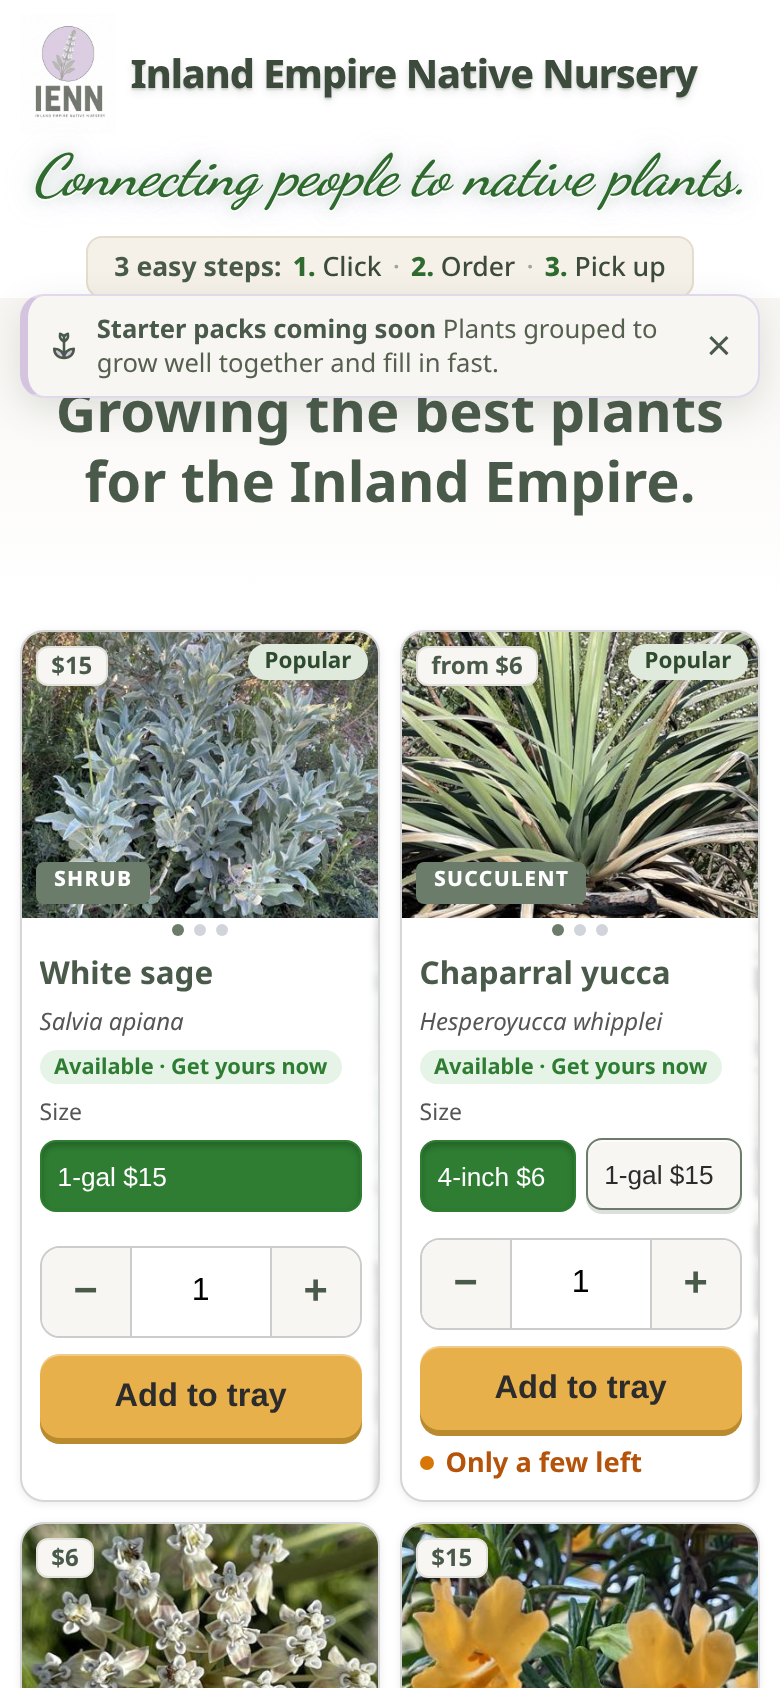
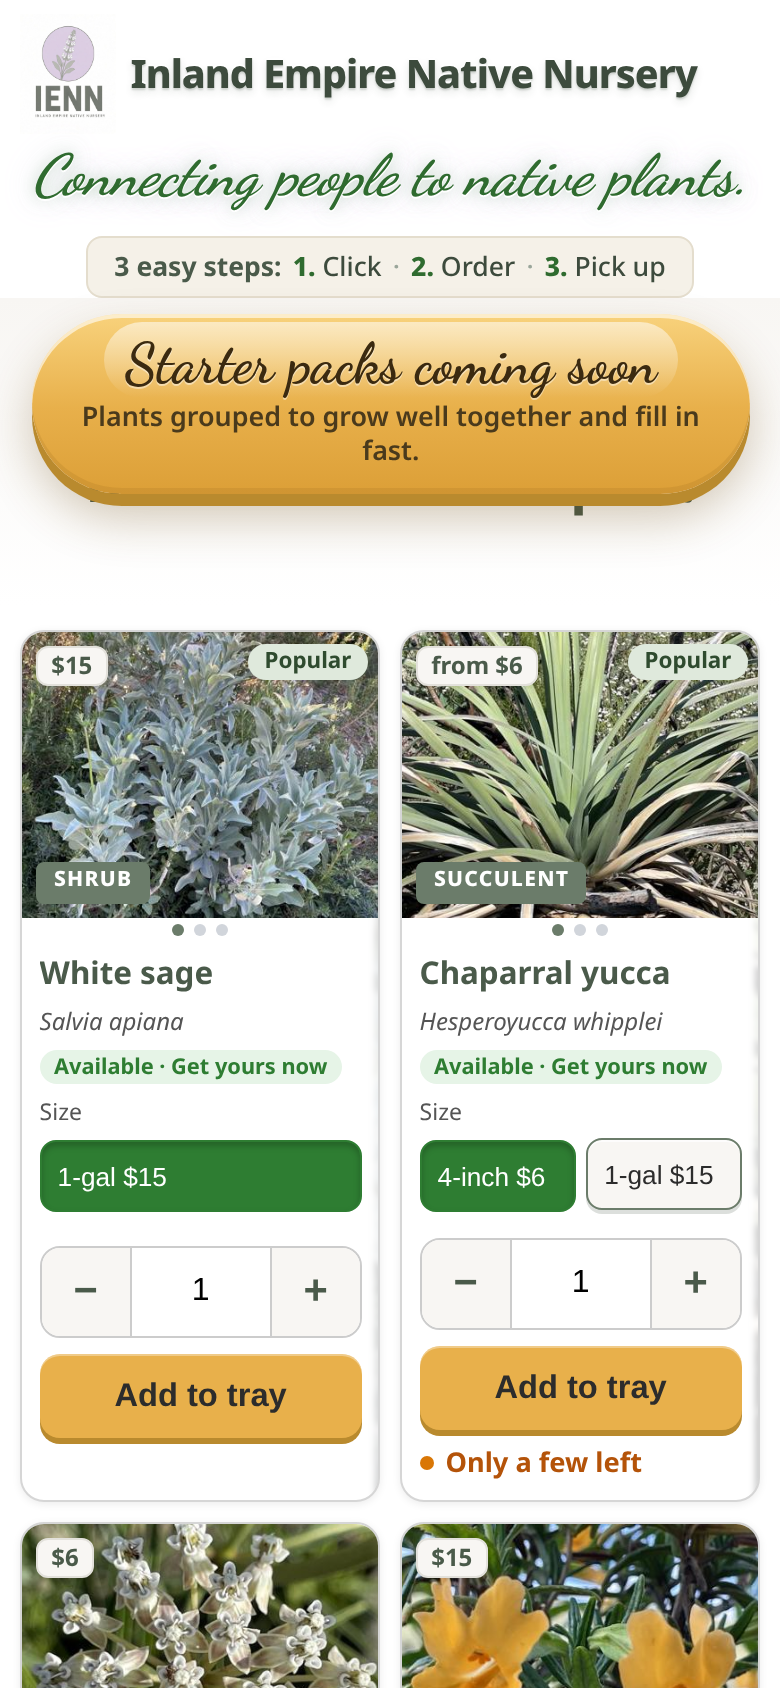
Teaser: softer gloss, balanced subtitle wrap

Changed region(s): [[0.0, 0.1848, 0.9846, 0.3389]]

diff --git a/index.html b/index.html
@@ -98,9 +98,9 @@
       background:linear-gradient(180deg, #f8d27c 0%, var(--honey,#e8b04b) 52%, #dc9f37 100%);
       box-shadow:inset 0 2px 0 rgba(255,255,255,.6), inset 0 -3px 0 rgba(120,80,20,.12), 0 6px 0 var(--honey-edge,#b98a2e), 0 12px 24px rgba(110,75,20,.30);
       opacity:0; transform:translateY(-140%); }
-    .starter-teaser::before { content:""; position:absolute; left:10%; right:10%; top:4px; height:42%; border-radius:999px; background:linear-gradient(180deg, rgba(255,255,255,.55), rgba(255,255,255,0)); pointer-events:none; }
+    .starter-teaser::before { content:""; position:absolute; left:5%; right:5%; top:3px; height:40%; border-radius:999px; background:linear-gradient(180deg, rgba(255,255,255,.38), rgba(255,255,255,0) 90%); pointer-events:none; }
     .starter-teaser .st-title { position:relative; display:block; font-family:"Dancing Script","Satisfy",cursive; font-weight:700; font-size:1.75rem; line-height:1.1; color:#3b2a10; text-shadow:0 1px 0 rgba(255,255,255,.45); }
-    .starter-teaser .st-sub { position:relative; display:block; margin-top:0.15rem; font-size:0.84rem; font-weight:600; line-height:1.3; color:#4a3a1c; }
+    .starter-teaser .st-sub { position:relative; display:block; margin-top:0.15rem; font-size:0.82rem; text-wrap:balance; font-weight:600; line-height:1.3; color:#4a3a1c; }
     .starter-teaser.in { opacity:1; transform:none; animation:st-drop .75s cubic-bezier(.2,.9,.3,1.2) both, st-pulse 2.4s ease-in-out .9s 2; }
     .starter-teaser:active { transform:translateY(4px); box-shadow:inset 0 2px 0 rgba(255,255,255,.5), 0 2px 0 var(--honey-edge,#b98a2e), 0 6px 12px rgba(110,75,20,.25); animation:none; }
     .starter-teaser:focus-visible { outline:3px solid var(--sage-dark); outline-offset:3px; }
